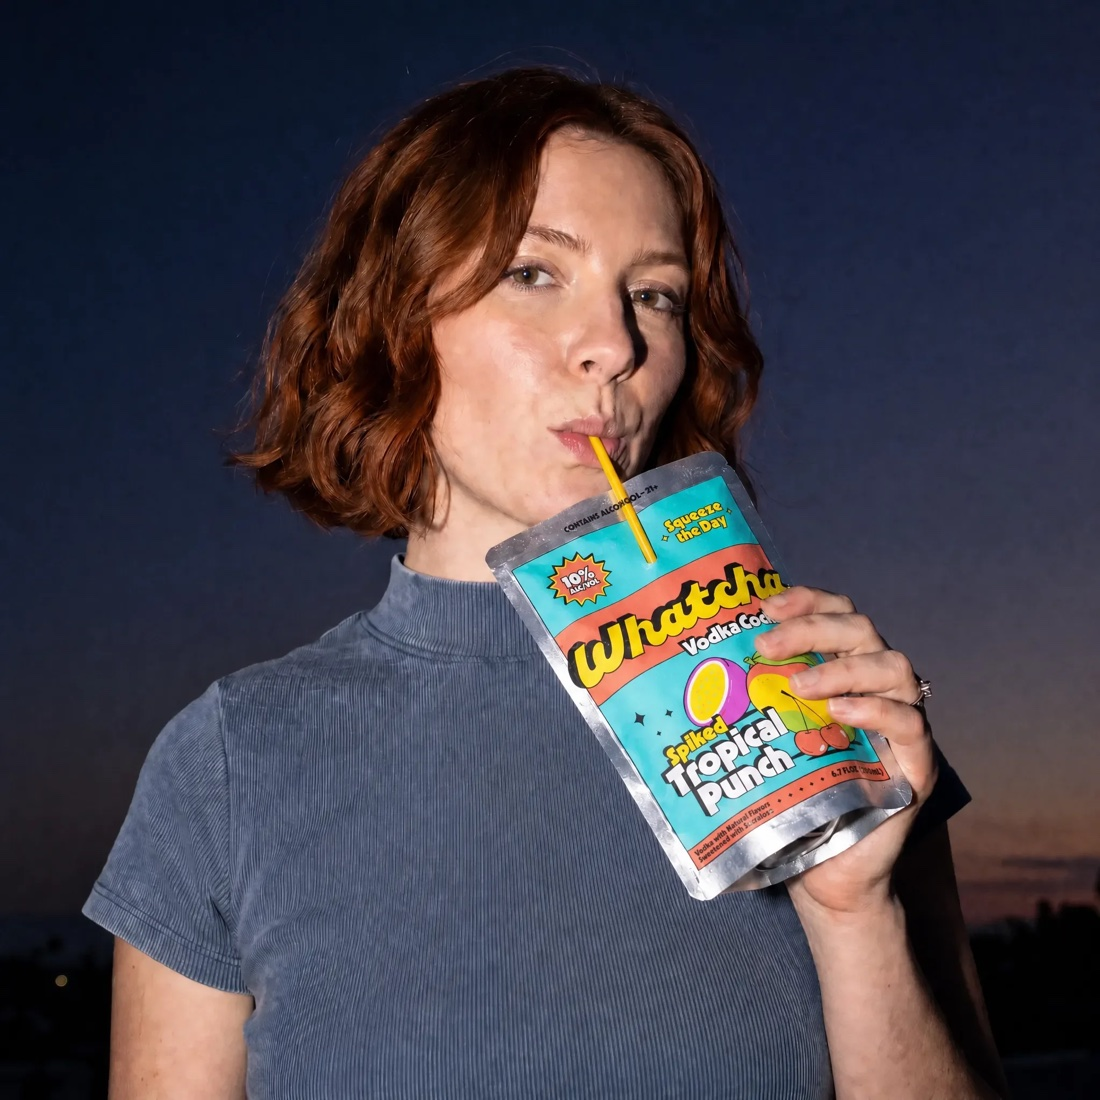
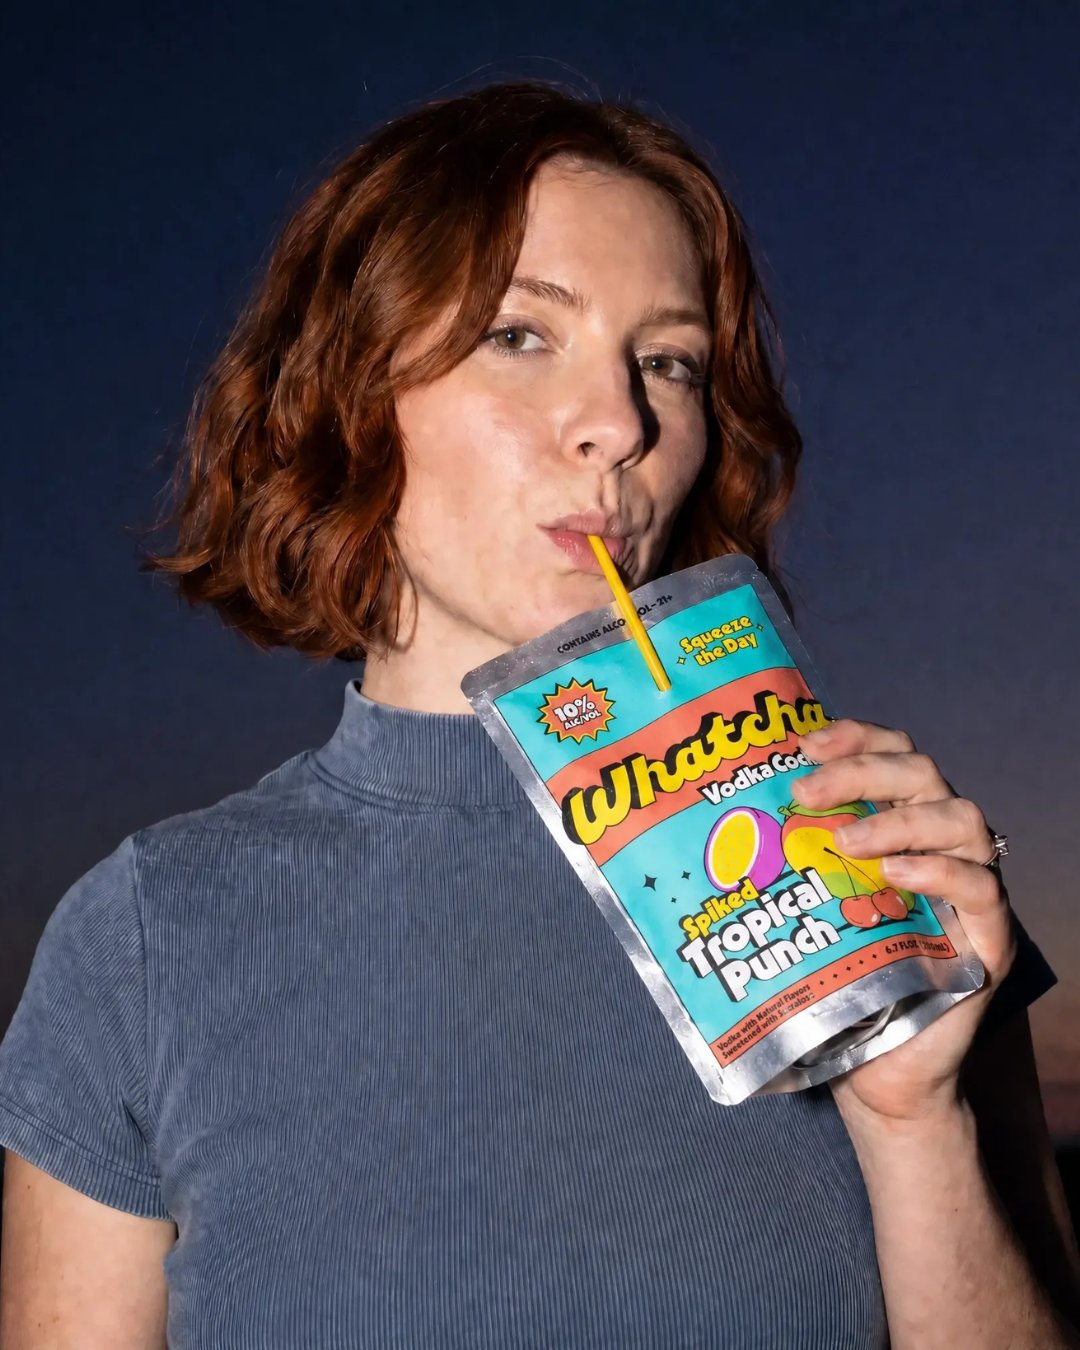
Refresh lifestyle photos on About and Whatcha Lookin At pages
Swaps in new poolside, beach, and dusk-sipping lifestyle photography,
moves the two-friends photo up to replace the older on-the-go shot on
About, and expands both pages' bottom photo grids to four even tiles
so nothing gets stretched oddly on mobile.

diff --git a/about.html b/about.html
@@ -48,7 +48,7 @@
 
   .photo-row { display: grid; gap: clamp(0.75rem, 2vw, 1.25rem); margin-block: 2rem; }
   .photo-row--two { grid-template-columns: repeat(2, 1fr); }
-  .photo-row--three { grid-template-columns: repeat(3, 1fr); }
+  .photo-row--four { grid-template-columns: repeat(4, 1fr); }
   .photo-row img {
     width: 100%; height: 100%; object-fit: cover;
     border-radius: var(--radius-sm);
@@ -56,8 +56,7 @@
     aspect-ratio: 3 / 4;
   }
   @media (max-width: 560px) {
-    .photo-row--three { grid-template-columns: repeat(2, 1fr); }
-    .photo-row--three img:last-child { grid-column: span 2; }
+    .photo-row--four { grid-template-columns: repeat(2, 1fr); }
   }
 </style>
 </head>
@@ -111,7 +110,7 @@
 
         <div class="photo-row photo-row--two">
           <img src="assets/images/about/story-park-hangout.jpg" alt="Whatcha pouch out at a park hangout" />
-          <img src="assets/images/about/story-on-the-go.jpg" alt="Whatcha pouch on the go" />
+          <img src="assets/images/about/story-outdoors.jpg" alt="Two friends holding Whatcha pouches" />
         </div>
 
         <p>Our entire generation grew up with a juice pouch in every lunchbox. The pouch isn't just packaging. It's a memory. It's fun, it's easy, it's made to be shared. People were already remixing that nostalgia into something a little more grown up. All it needed was someone to do it right.</p>
@@ -124,10 +123,11 @@
           <p class="signoff__title">Founder</p>
         </div>
 
-        <div class="photo-row photo-row--three">
-          <img src="assets/images/about/story-summer-gathering.jpg" alt="Whatcha pouch at a summer gathering" />
-          <img src="assets/images/about/story-close-up.jpg" alt="Whatcha pouch close up" />
-          <img src="assets/images/about/story-outdoors.jpg" alt="Two friends holding Whatcha pouches" />
+        <div class="photo-row photo-row--four">
+          <img src="assets/images/lifestyle/poolside-portrait.jpg" alt="Woman poolside holding a Whatcha Spiked Peach Lemonade pouch" />
+          <img src="assets/images/lifestyle/beach-volleyball.jpg" alt="Friends playing beach volleyball with a Whatcha Spiked Peach Lemonade pouch in the sand" />
+          <img src="assets/images/lifestyle/poolside-fruit-flatlay.jpg" alt="Two Whatcha pouches poolside with fresh fruit" />
+          <img src="assets/images/lifestyle/night-sipping-portrait.jpg" alt="Woman sipping a Whatcha Spiked Tropical Punch pouch at dusk" />
         </div>
       </div>
     </div>

diff --git a/whatchalookinat/index.html b/whatchalookinat/index.html
@@ -210,12 +210,16 @@
 
   .photo-row { display: grid; gap: clamp(0.75rem, 2vw, 1.25rem); margin-block: 2rem; }
   .photo-row--three { grid-template-columns: repeat(3, 1fr); }
+  .photo-row--four { grid-template-columns: repeat(4, 1fr); }
   .photo-row img {
     width: 100%; height: 100%; object-fit: cover;
     border-radius: var(--radius-sm);
     box-shadow: var(--shadow-soft);
     aspect-ratio: 3 / 4;
     border: 4px solid var(--navy);
+  }
+  @media (max-width: 700px) {
+    .photo-row--four { grid-template-columns: repeat(2, 1fr); }
   }
   @media (max-width: 560px) {
     .photo-row--three { grid-template-columns: repeat(2, 1fr); }
@@ -328,10 +332,11 @@
       <h2>Whatcha in the wild</h2>
       <p class="fs-body-lg">Show us how you Squeeze the Day</p>
 
-      <div class="photo-row photo-row--three">
+      <div class="photo-row photo-row--four">
         <img src="../assets/images/lifestyle/poolside-portrait.jpg" alt="Woman poolside holding a Whatcha Spiked Peach Lemonade pouch" />
+        <img src="../assets/images/lifestyle/ice-flatlay-hand.jpg" alt="Hand holding a Whatcha Spiked Tropical Punch pouch over ice with fresh fruit" />
+        <img src="../assets/images/lifestyle/beach-volleyball.jpg" alt="Friends playing beach volleyball with a Whatcha Spiked Peach Lemonade pouch in the sand" />
         <img src="../assets/images/lifestyle/night-sipping-portrait.jpg" alt="Woman sipping a Whatcha Spiked Tropical Punch pouch at dusk" />
-        <img src="../assets/images/lifestyle/coral-hand-hold.jpg" alt="Hand holding a Whatcha Spiked Peach Lemonade pouch" />
       </div>
 
       <a class="marquee marquee--social" href="https://www.instagram.com/drinkwhatcha" target="_blank" rel="noopener" aria-label="Follow Whatcha on Instagram, @drinkwhatcha">
